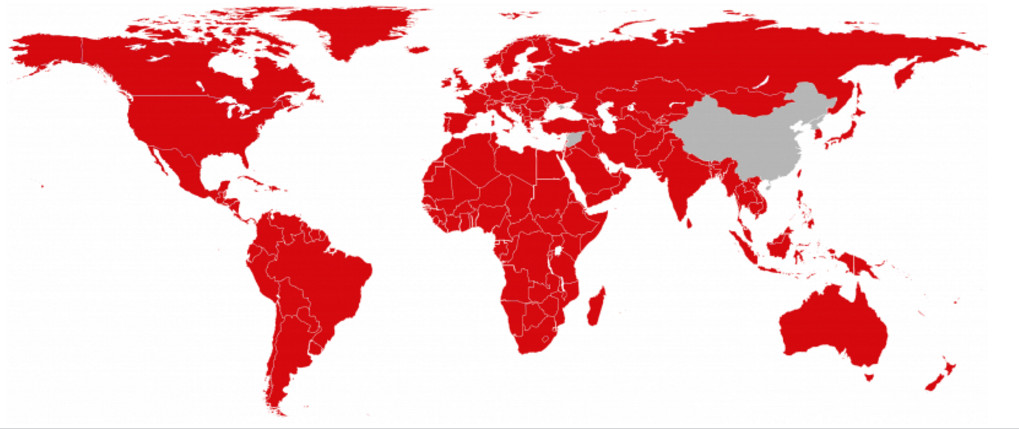
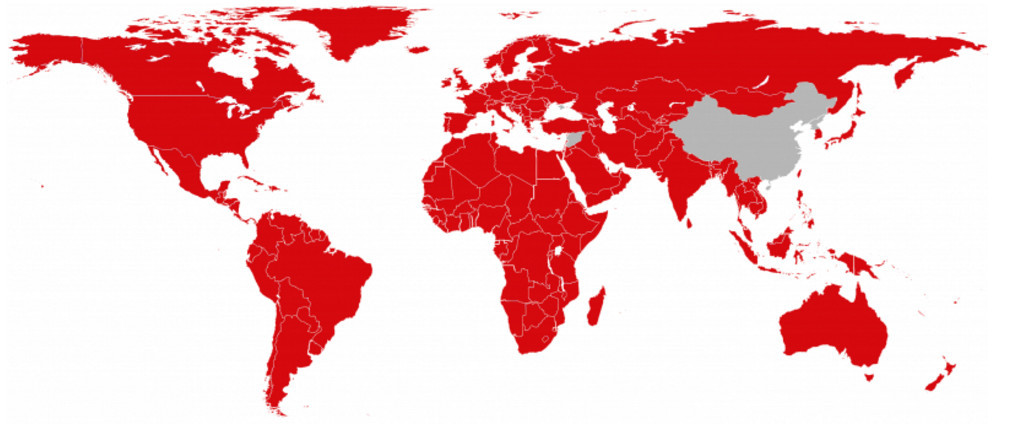
fix embed

diff --git a/cargo/netflix.html b/cargo/netflix.html
@@ -264,6 +264,6 @@
     </script>
   </head>
   <body>
-    <div id="regions_div" style="width: 900px; height: 500px;"></div>
+    <div id="regions_div" style="width: 100%; height: 100%;"></div>
   </body>
 </html>

diff --git a/_posts/2016-01-23-netflix-content-by-country.md b/_posts/2016-01-23-netflix-content-by-country.md
@@ -5,12 +5,14 @@ title: Netflix Content by Country
 
 Beginning of January Netflix expanded to most of the countries all around the world. The domination map looks quite impressive:
 
-[![netflix_map](/assets/netflix_map.png)](https://help.netflix.com/en/node/14164)
+[![netflix_map](/assets/netflix_map.jpg)](https://help.netflix.com/en/node/14164)
 
 Unfortunately, the reality is not as bright as it looks. When I read the announcement, I did not hesitate and subscribed the service. I was very disappointed to see that most of my favorite shows were not available in my country and I immediately cancelled my subscription.
 
 Later, I stumbled upon a website that maintains the list of Netflix content per country called [uNoGS](http://unogs.com/countrydetail/) (unofficial Netflix online Global Search). I was very interested to see how my country stands when compared to the others. Sadly there was no visualization of uNoGS data on their site, so I came up with my own using the interactive [Google Charts API](https://google-developers.appspot.com/chart/interactive/docs/gallery/geochart):
 
-<iframe width="900" height="500" src="/cargo/netflix.html" frameborder="0"></iframe>
+<iframe width="600" height="350" src="/cargo/netflix.html" frameborder="0" scrolling="no"></iframe>
+
+(open map in [full screen](/cargo/netflix.html))
 
 **Update:** There is a service called [TVUnblock](https://tvunblock.com/) which makes US content available to non-US people like me by just switching DNS servers to theirs (no malware installation required), so my subscription is live again. Yay!
